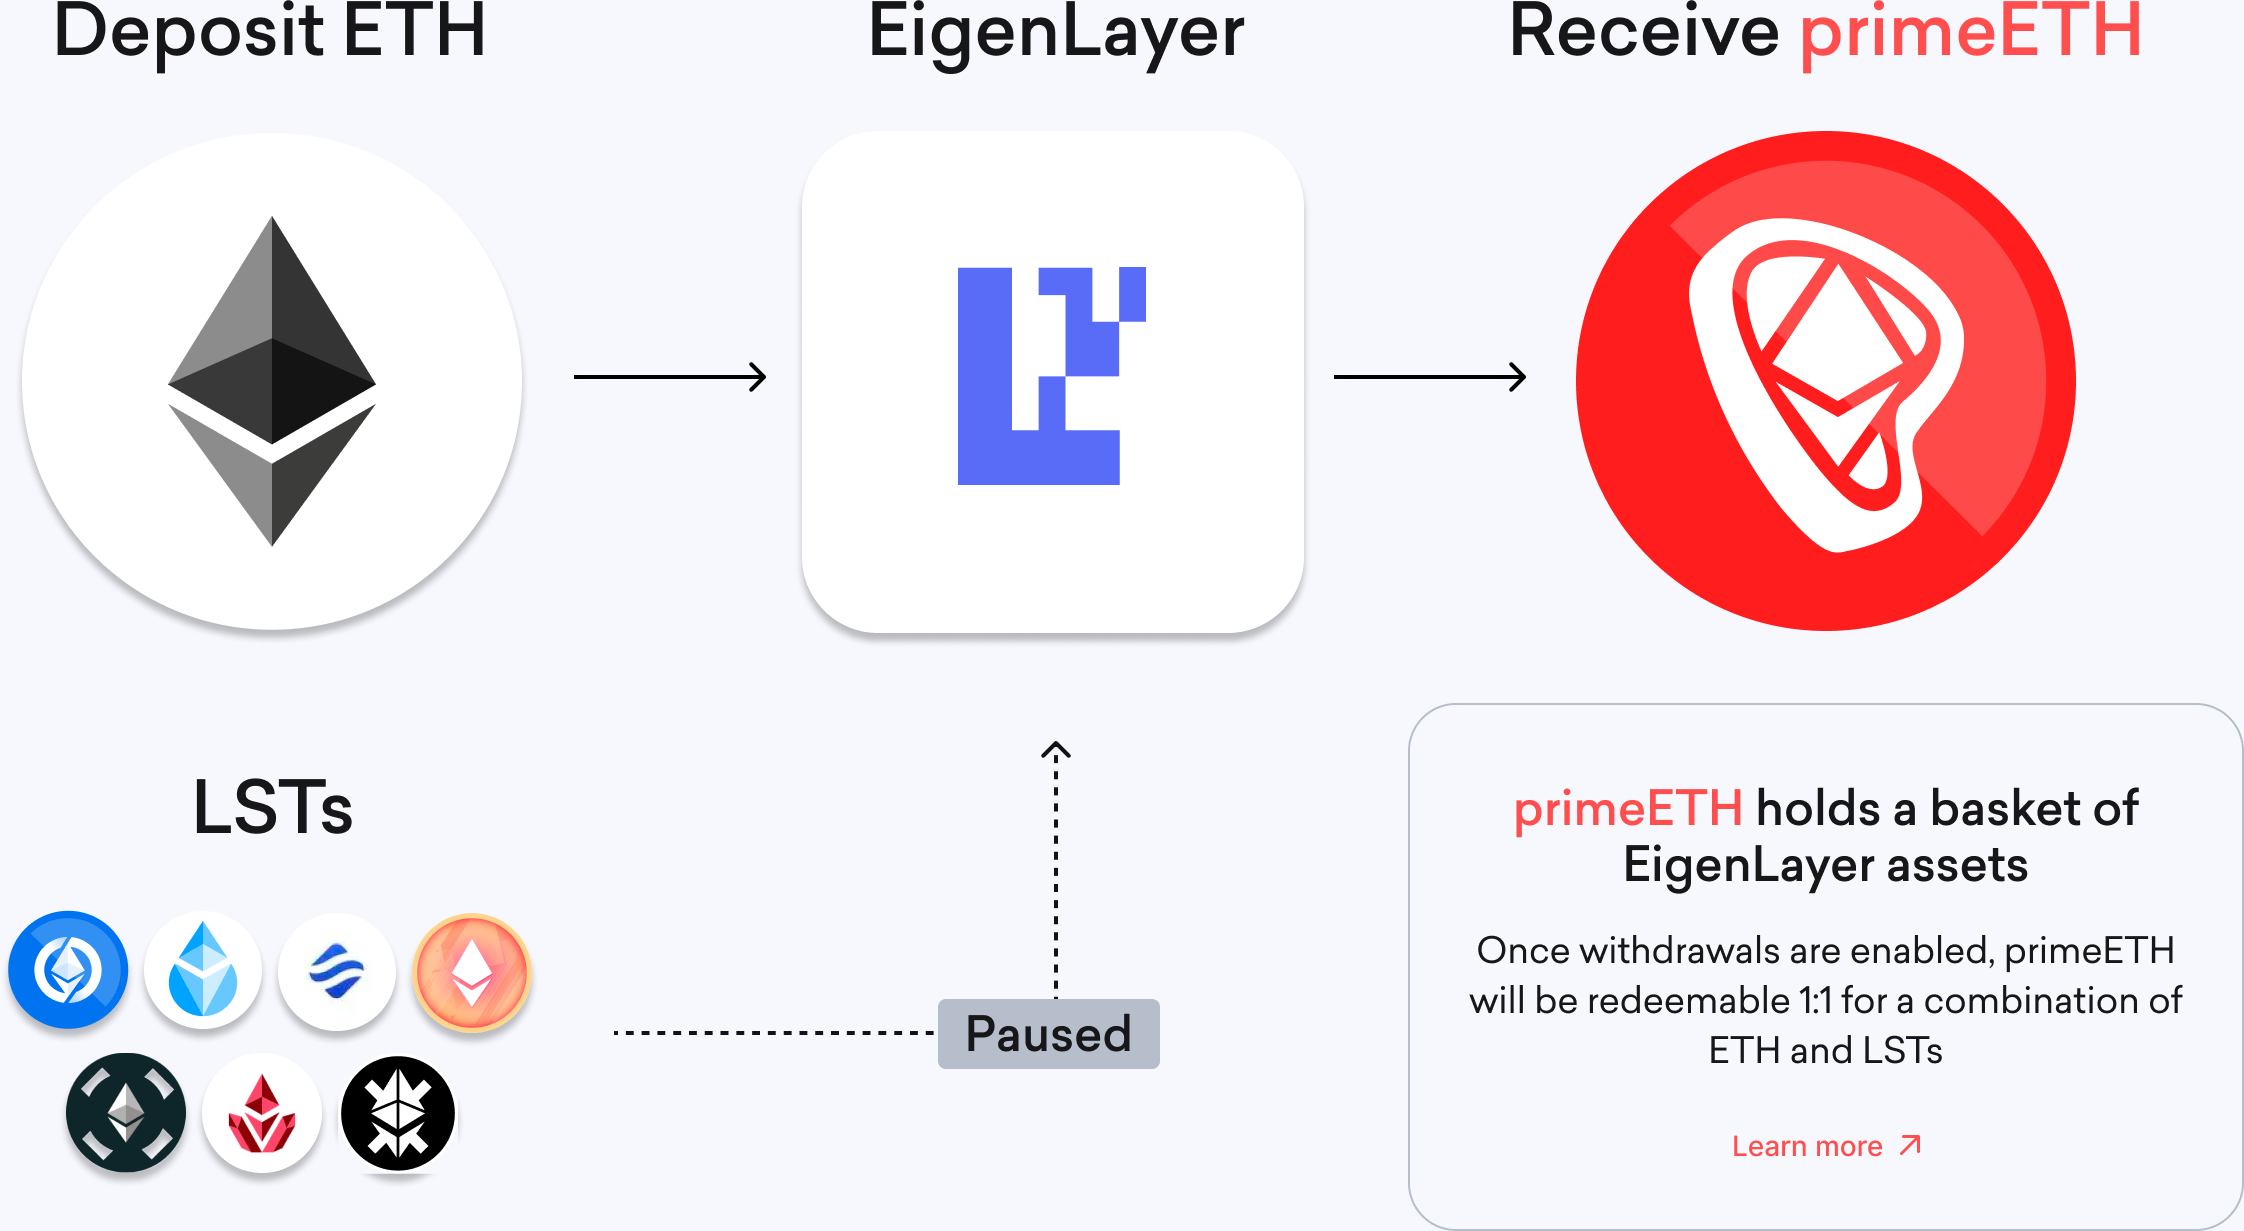
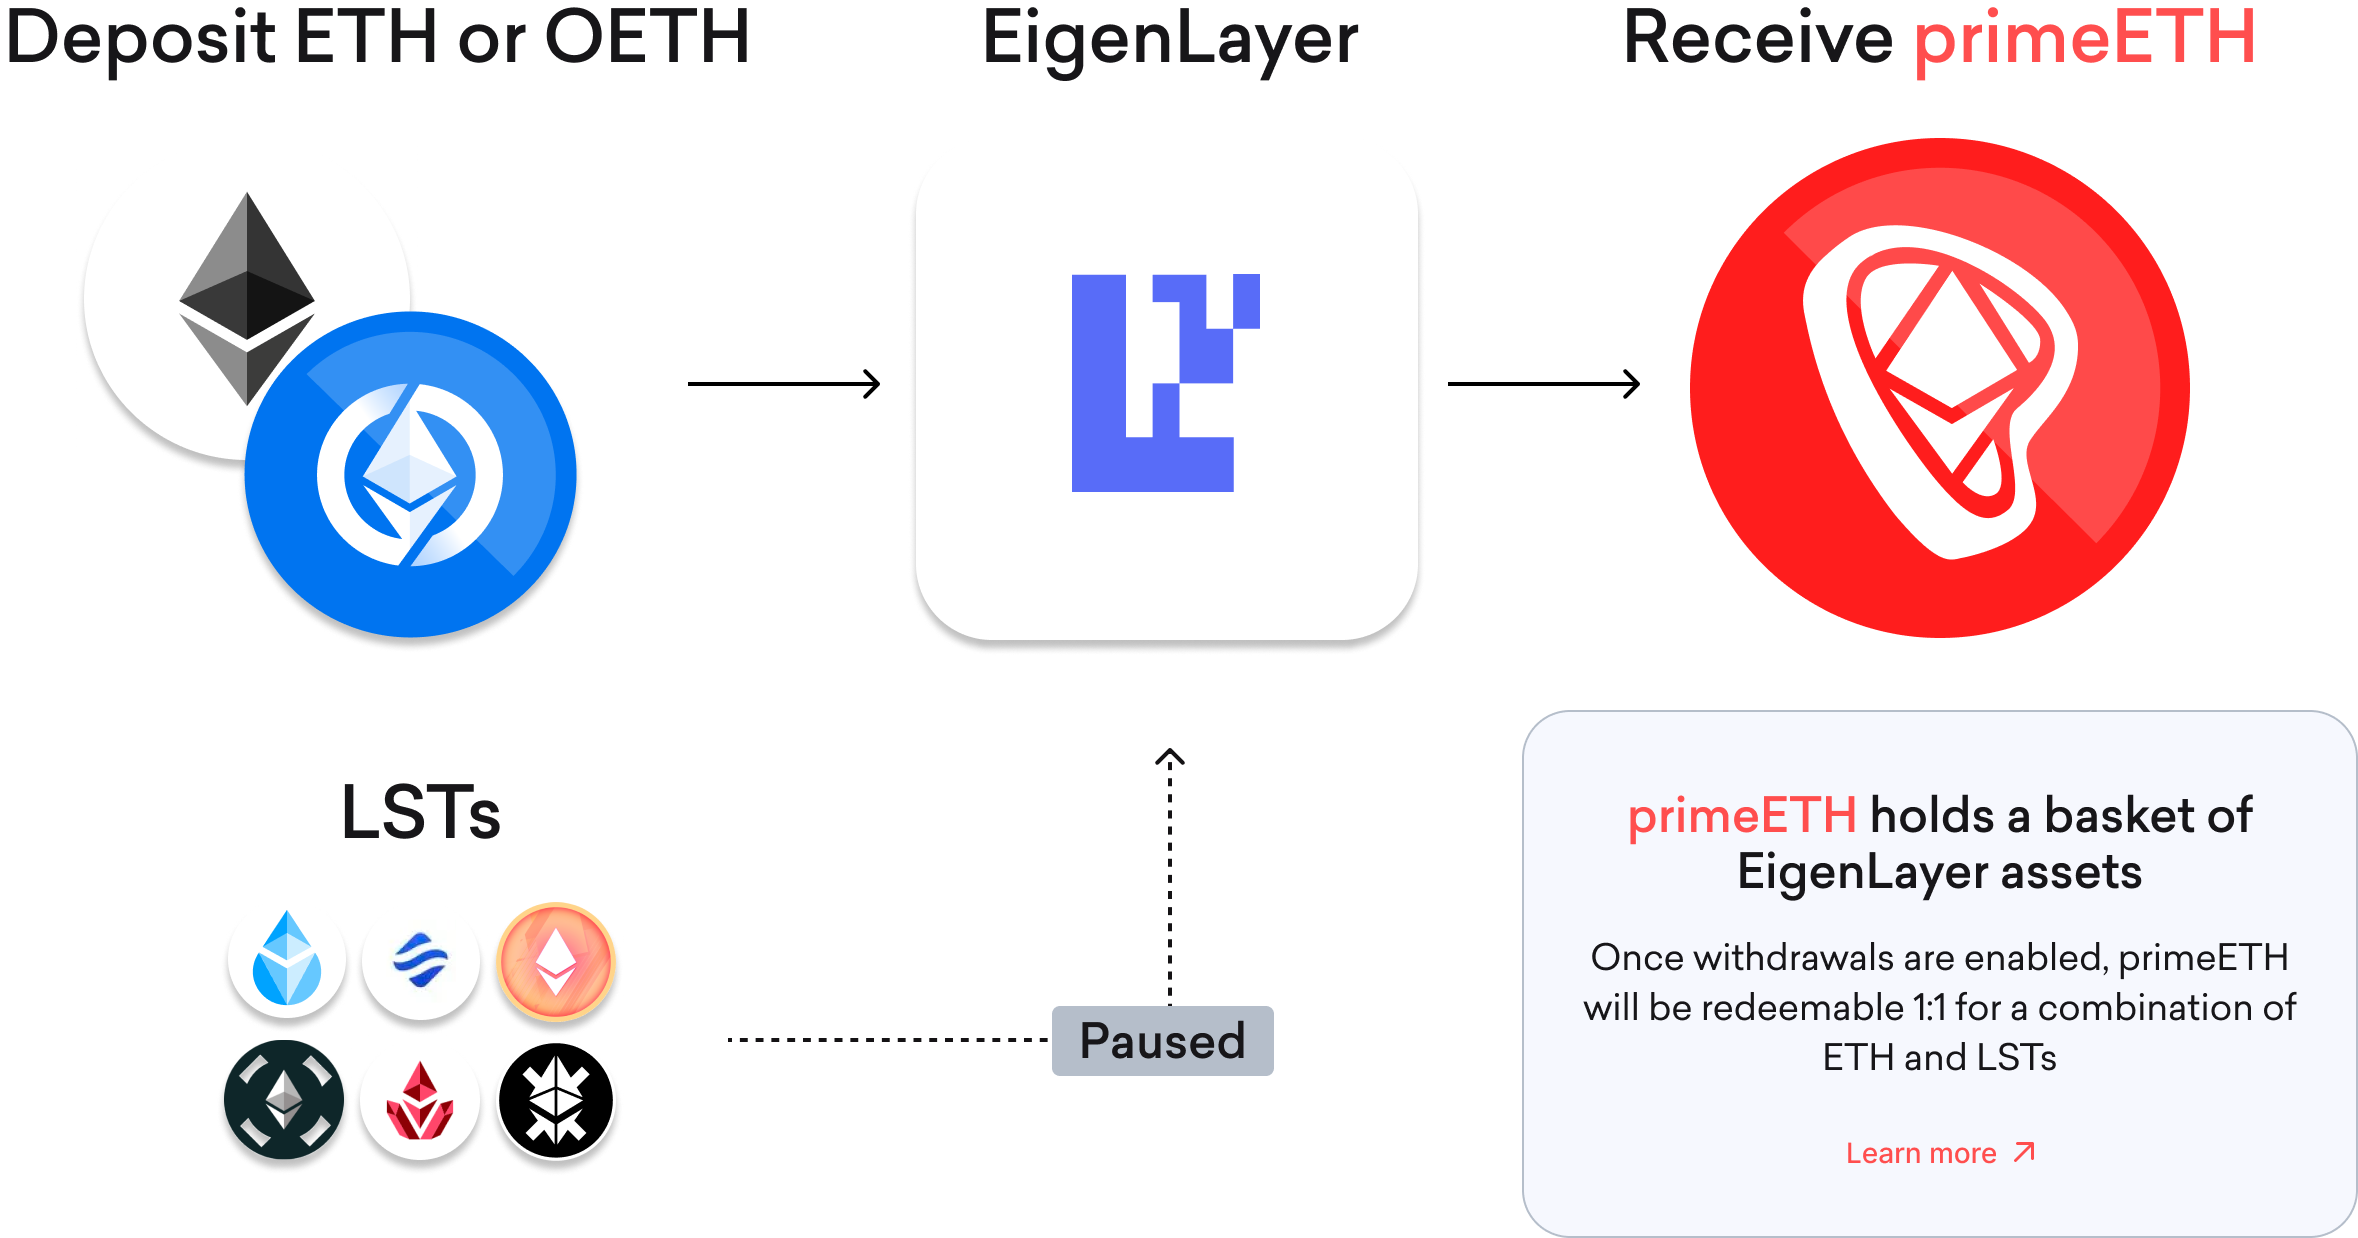
Updates (#20)

diff --git a/app/routes/_index.tsx b/app/routes/_index.tsx
@@ -121,9 +121,9 @@ export default function Marketing() {
           <div>
             <Link
               to="/app/restake"
-              className="block sm:inline text-center sm:w-auto btn sm:px-10 py-5 text-xl sm:text-2.66xl hover:cursor-pointer"
+              className="block sm:inline text-center sm:w-auto btn sm:px-20 py-5 text-xl sm:text-2.66xl hover:cursor-pointer"
             >
-              Restake ETH now
+              Restake now
             </Link>
           </div>
         </div>
@@ -192,7 +192,7 @@ export default function Marketing() {
         </div>
       </div>
 
-      <div className="mt-14 sm:mt-28 pt-2 mx-auto w-full max-w-8xl pb-20 sm:pb-24 px-8 lg:px-16">
+      {/* <div className="mt-14 sm:mt-28 pt-2 mx-auto w-full max-w-8xl pb-20 sm:pb-24 px-8 lg:px-16">
         <div className="flex flex-col sm:flex-row justify-between">
           <div className="min-w-0 flex-1">
             <div className="text-4xl md:text-6xl font-bold text-gray-950 flex text-balance">
@@ -208,14 +208,14 @@ export default function Marketing() {
             <img src={EthSrc} alt="ETH" className="h-64 sm:h-80" />
           </div>
         </div>
-      </div>
+      </div> */}
 
       <div
         className={`bg-[bottom_-40%_right_0%] bg-[length:170px] sm:bg-[length:300px] sm:bg-[bottom_-60%_right_0%] bg-no-repeat`}
         style={{ backgroundImage: `url(${Pan})` }}
       >
         <div className="mx-auto w-full max-w-8xl px-8 lg:px-16">
-          <div className="text-4xl md:text-6xl font-bold text-gray-950">
+          <div className="text-4xl md:text-6xl font-bold text-gray-950 text-center">
             <span className="text-red-500">primeETH</span>
             {' is backed by hard assets'}
           </div>
@@ -223,7 +223,7 @@ export default function Marketing() {
         <div className="px-8 mx-auto w-full max-w-8xl pb-24 sm:pb-56">
           <div className="grid grid-cols-3 sm:grid-cols-4 mt-8 sm:mt-20 gap-y-8 sm:gap-y-24 gap-x-6">
             <Token iconSrc={EthSrc} text="ETH" isActive={true} />
-            <Token iconSrc={OethSrc} text="OETH" isActive={false} />
+            <Token iconSrc={OethSrc} text="OETH" isActive={true} />
             <Token iconSrc={StethSrc} text="stETH" isActive={false} />
             <Token iconSrc={SwethSrc} text="swETH" isActive={false} />
 
@@ -248,12 +248,12 @@ export default function Marketing() {
                   className="h-12 sm:h-[74px] sm:w-[74px]"
                 />
               </div>
-              <div className="text-2xl sm:text-4xl font-medium leading-relaxed text-center">
-                Deposit ETH on PrimeStaked
+              <div className="sm:mt-2 text-2xl sm:text-4xl font-medium leading-relaxed text-center">
+                Deposit ETH or OETH
               </div>
-              <div className="text-lg sm:text-2xl leading-normal text-balance text-center mb-3">
-                Stay tuned to our Twitter for information on any future LST
-                deposit windows.
+              <div className="sm:mt-3 text-lg sm:text-2xl leading-normal text-balance text-center mb-5">
+                All deposits earn the same three layers of rewards from SSV,
+                EigenLayer, and XP.
               </div>
               <Link
                 to="/app/restake"
@@ -270,12 +270,12 @@ export default function Marketing() {
                   className="h-12 sm:h-[74px] sm:w-[74px]"
                 />
               </div>
-              <div className="text-2xl sm:text-4xl font-medium leading-relaxed text-center">
+              <div className="sm:mt-2 text-2xl sm:text-4xl font-medium leading-relaxed text-center">
                 Buy it on Uniswap
               </div>
-              <div className="text-lg sm:text-2xl leading-normal text-balance text-center mb-3">
-                Our platform will handle the rest, providing you with three
-                types of yield as your assets are restaked.
+              <div className="sm:mt-3 text-lg sm:text-2xl leading-normal text-balance text-center mb-5">
+                You primeETH will earn at the same rate whether you buy or
+                deposit.
               </div>
               <a
                 href="https://app.uniswap.org/swap?outputCurrency=0x6ef3D766Dfe02Dc4bF04aAe9122EB9A0Ded25615&inputCurrency=ETH"
@@ -290,7 +290,7 @@ export default function Marketing() {
         </div>
       </div>
 
-      <div className="mx-auto w-full max-w-8xl pt-10 sm:pt-12 pb-16 sm:pb-40 px-8 lg:px-16 flex flex-col items-center">
+      <div className="mx-auto w-full max-w-8xl pt-10 sm:pt-20 pb-16 sm:pb-40 px-8 lg:px-16 flex flex-col items-center">
         <div className="text-4xl sm:text-6xl font-bold text-gray-950 text-center mb-20">
           How it works
         </div>
